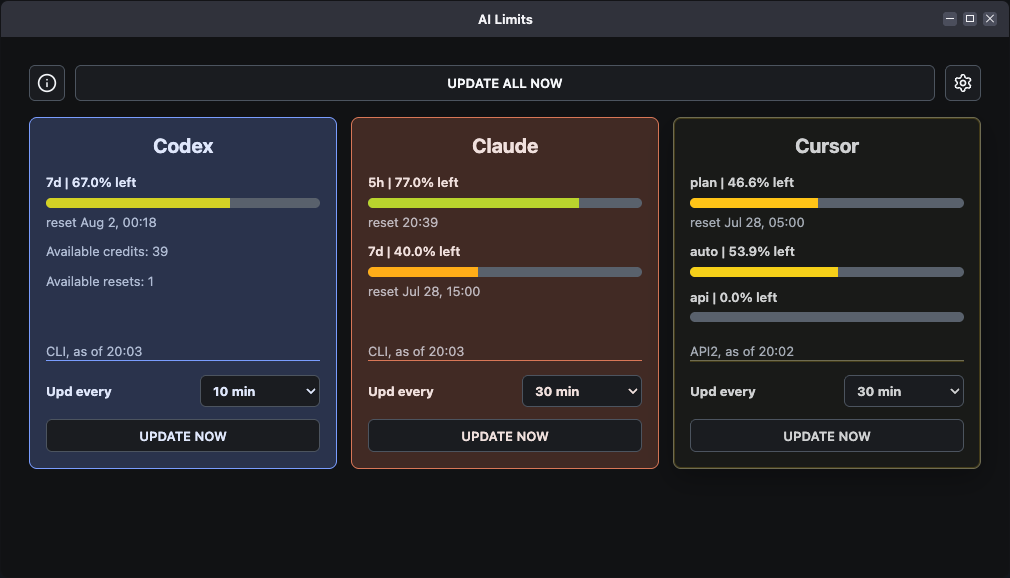
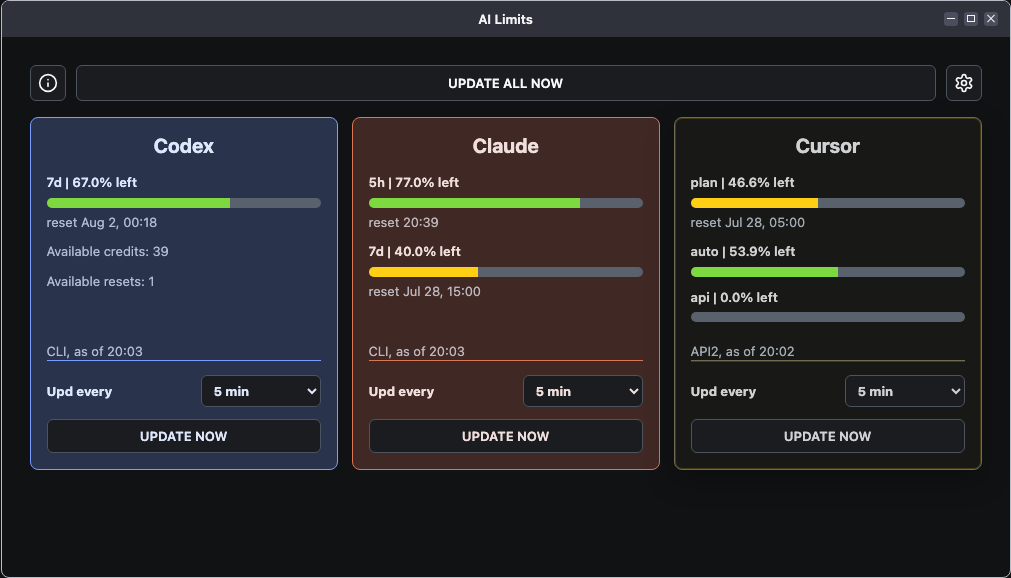
Add showcase screenshot regen and gray README frame border.

diff --git a/frontend/modules/providers.js b/frontend/modules/providers.js
@@ -257,7 +257,7 @@ async function refreshSingleProvider(providerId, { showLoading = true } = {}) {
 
   providerRefreshInFlight.add(providerId);
 
-  if (showLoading) {
+  if (showLoading && !isScreenshotShowcase) {
     setProviderStatus(providerId, "loading");
   }
 
@@ -280,13 +280,17 @@ async function refreshSingleProvider(providerId, { showLoading = true } = {}) {
       attachCliAuthorizationHandlers(block);
     }
 
+    if (isScreenshotShowcase) {
+      return;
+    }
+
     if (isProviderRefreshSuccess(provider)) {
       setProviderStatus(providerId, "updated", "Updated");
     } else {
       setProviderStatus(providerId, "failed", "Failed");
     }
   } catch {
-    if (isProviderEnabled(providerId)) {
+    if (isProviderEnabled(providerId) && !isScreenshotShowcase) {
       setProviderStatus(providerId, "failed", "Failed");
     }
   } finally {
@@ -315,8 +319,10 @@ export function refreshEnabledProviders({ initial = false } = {}) {
     );
   }
 
-  for (const providerId of enabledProviders) {
-    setProviderStatus(providerId, "loading");
+  if (!isScreenshotShowcase) {
+    for (const providerId of enabledProviders) {
+      setProviderStatus(providerId, "loading");
+    }
   }
 
   for (const providerId of enabledProviders) {

diff --git a/frontend/styles/showcase.css b/frontend/styles/showcase.css
@@ -50,7 +50,7 @@ body.screenshot-showcase {
   min-width: 320px;
   min-height: 540px;
   overflow: auto;
-  border: 1px solid rgba(23, 26, 31, 0.28);
+  border: 1px solid #b8bcc6;
   background: var(--app-bg);
   box-shadow: 0 28px 70px rgba(28, 46, 78, 0.32);
 }
@@ -105,7 +105,6 @@ body.screenshot-showcase {
 }
 
 .showcase-window--macos {
-  border-color: #121315;
   border-radius: 18px;
   box-shadow: 0 32px 80px rgba(28, 46, 78, 0.32);
 }

diff --git a/docs/product/showcase.md b/docs/product/showcase.md
@@ -4,6 +4,8 @@ The browser showcase renders the production desktop frontend with fixed demonstr
 
 From the project root, run `python3 -m http.server 1420 --bind 127.0.0.1 --directory frontend`, then open `http://127.0.0.1:1420/?showcase=macos`. Replace `macos` with `windows` or `linux`, or use the platform controls beside the frame.
 
+To replace the README images in `docs/readmes/screenshots/` in one step, run `npm run screenshots:update` (or `sh scripts/update-showcase-screenshots.sh`). The script starts the local frontend server, captures the five showcase shots (including settings and help), overwrites those PNG files, and stops the server when finished.
+
 The fixed data is defined in `frontend/modules/showcase.js` so its shape follows the rendered provider cards. Update it only when a new screenshot needs different content or the displayed data model changes.
 
-The frame starts at a compact size and can be resized by dragging its invisible bottom-right corner. The three platform controls change only the decorative window chrome.
+The frame starts at a compact size and can be resized by dragging its invisible bottom-right corner. The three platform controls change only the decorative window chrome. Showcase windows use a 1px gray border so README screenshots stay visible on light and dark GitHub backgrounds.

diff --git a/CHANGELOG.md b/CHANGELOG.md
@@ -4,6 +4,8 @@ This file records user-visible changes. Its version sections are used automatica
 
 ## Unreleased
 
+- Added a thin gray border to browser showcase window frames so README screenshots stay visible on light and dark backgrounds.
+- Refreshed README showcase screenshots from the current UI.
 - Fixed Codex CLI authorization detection when the CLI writes its signed-in status to diagnostic output.
 - Enabled a restrictive Content Security Policy for the desktop app.
 
